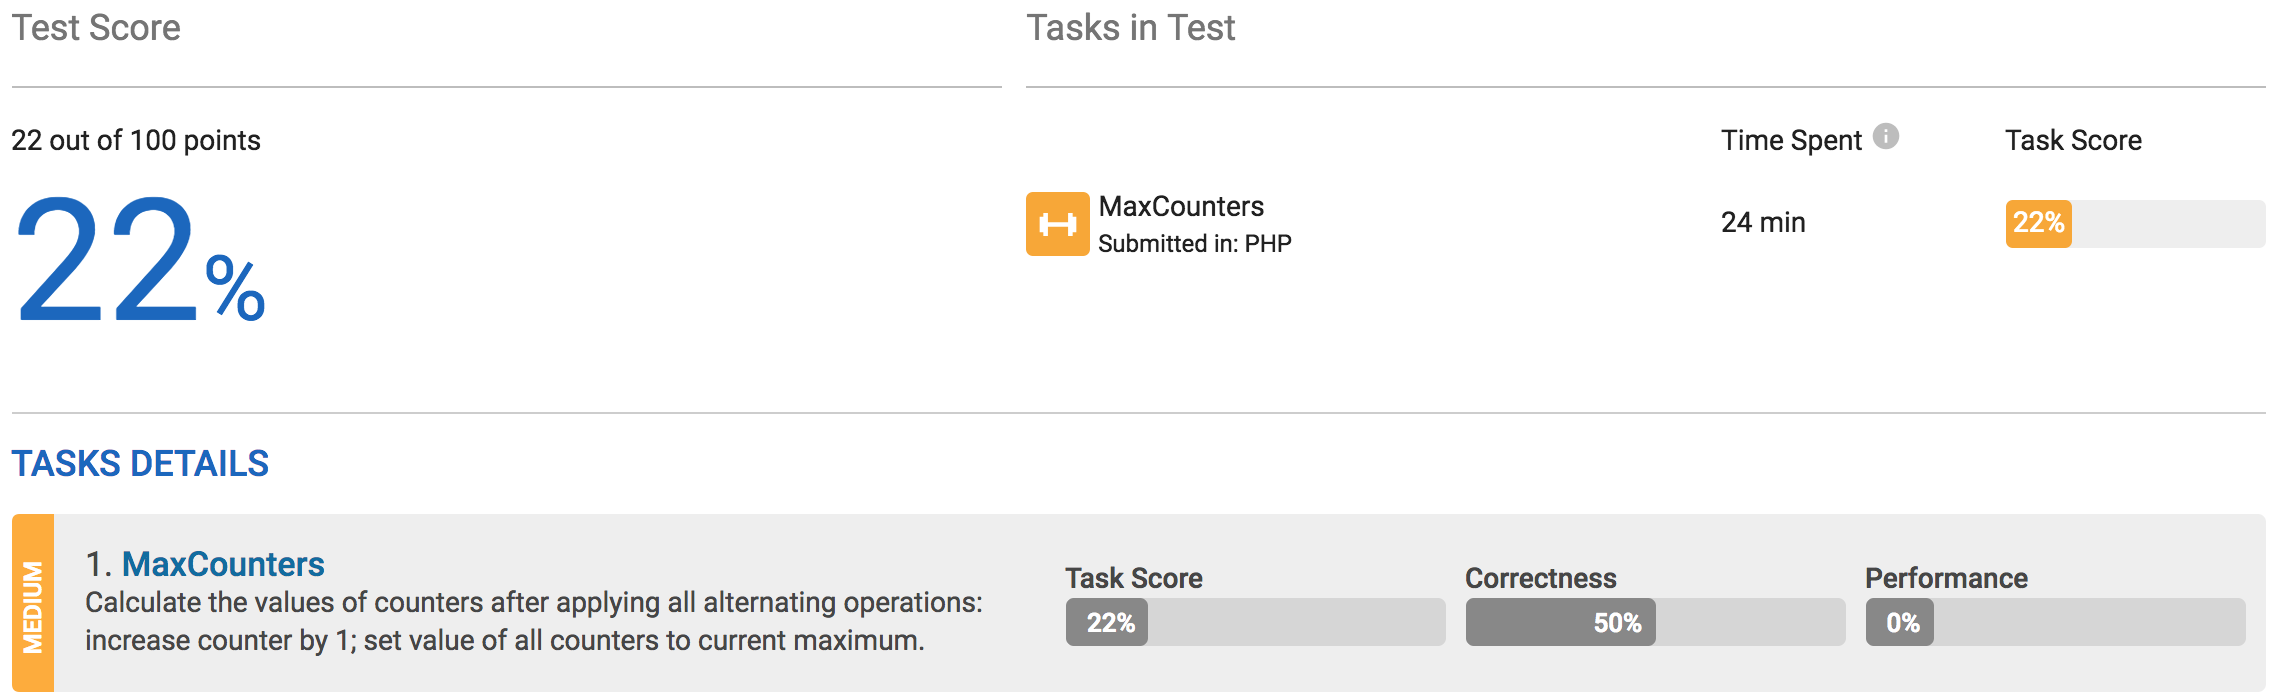
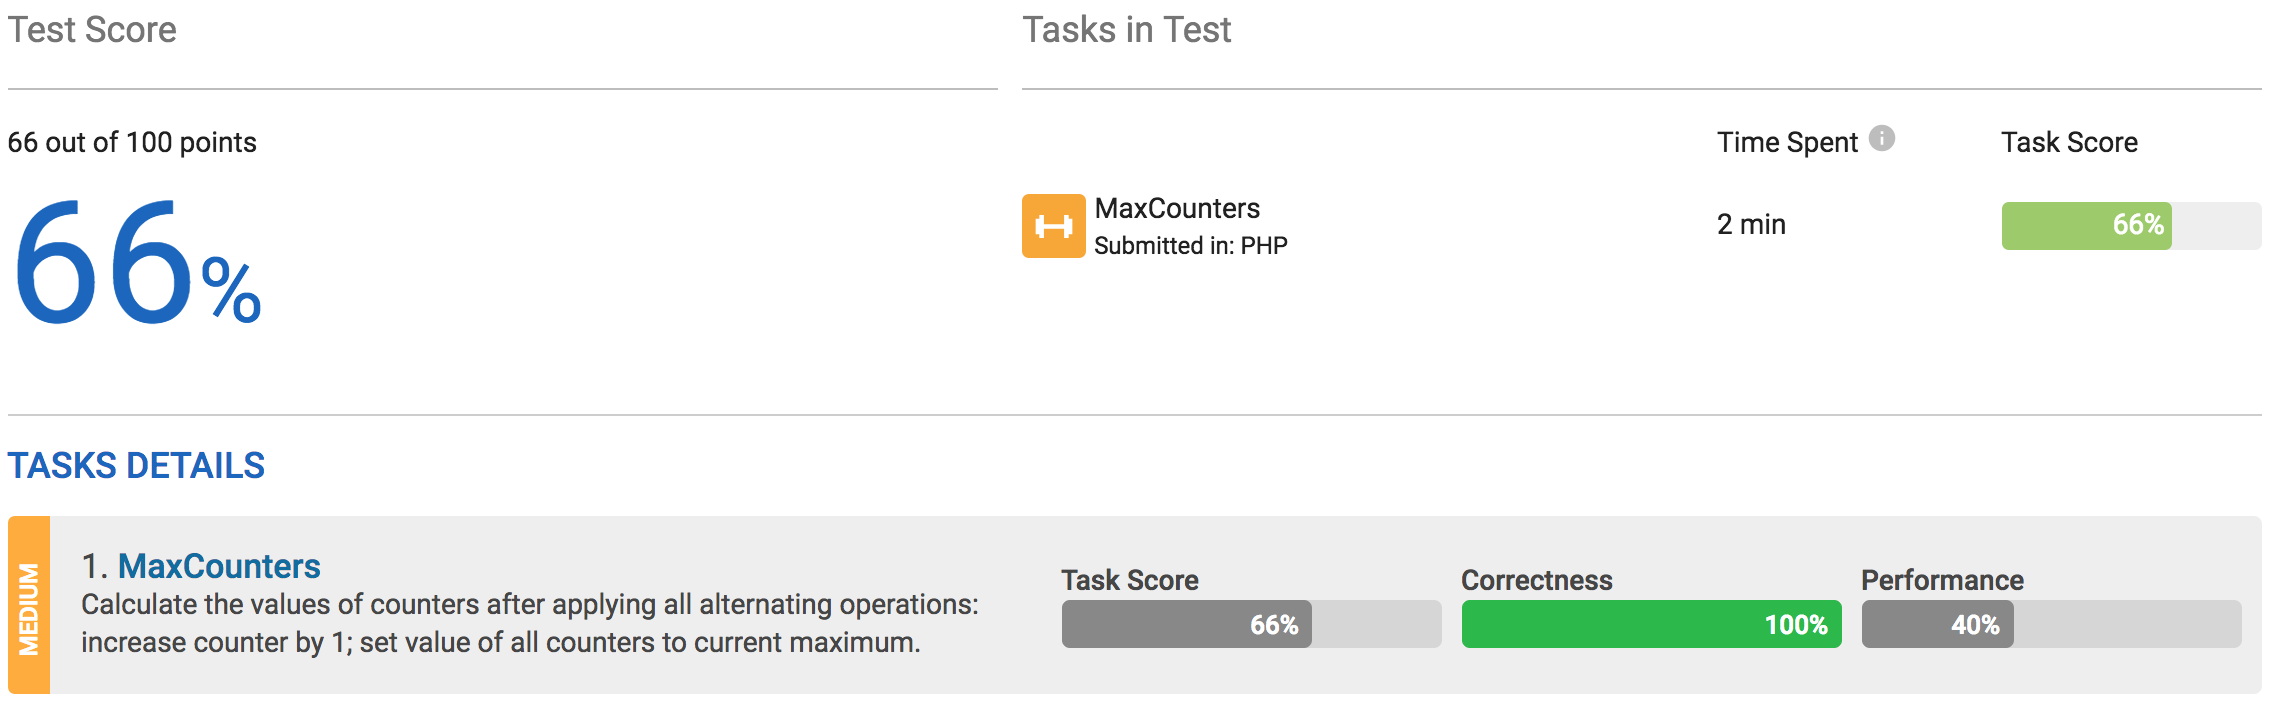
Result_2 for MaxCounters of Lesson_4_CountingElements.

diff --git a/Lessons/4_CountingElements/Tasks_MaxCounters/Answer.php b/Lessons/4_CountingElements/Tasks_MaxCounters/Answer.php
@@ -26,7 +26,8 @@ function solution($A) {
             if (!isset($tmpArray[$index])) $tmpArray[$index] = 0;
 
             $tmpArray[$index]++;
-            $maxElement = $tmpArray[$index];
+
+            if ($tmpArray[$index] > $maxElement) $maxElement = $tmpArray[$index];
         }
         else if ($A[$i] === ($N + 1))
         {
